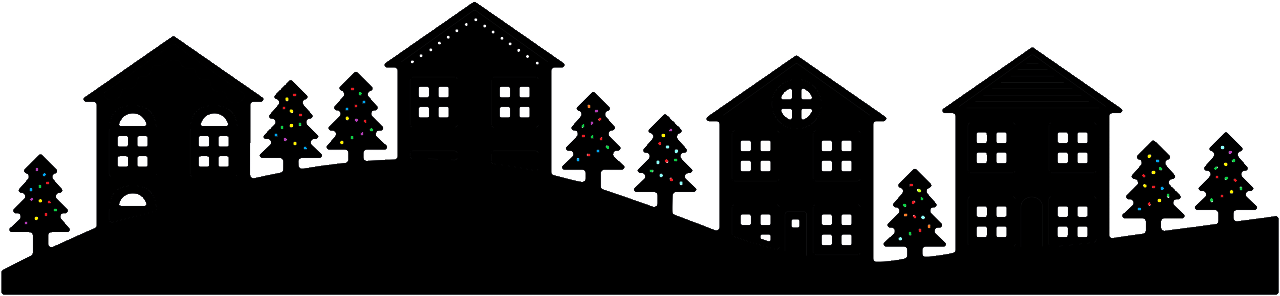
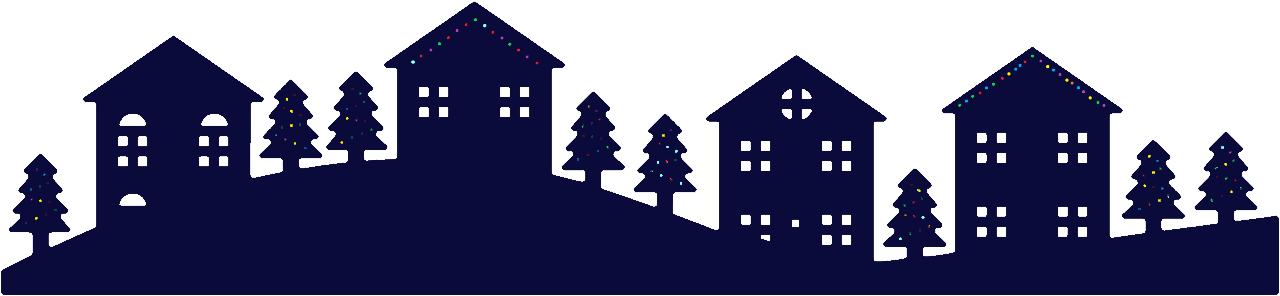
color for holiday theme updated

diff --git a/css/style.css b/css/style.css
@@ -38,7 +38,7 @@ html{
 
 #particles-js{
   /* background: linear-gradient(180deg,rgb(42,72,99),rgb(63,126,172)); */
-  background: linear-gradient(180deg,rgb(9,10,15), rgb(55,65,74));
+  background: linear-gradient(180deg,rgb(4,0,32), rgb(10,11,58));
 
   width: 100%;
   height:100%;
